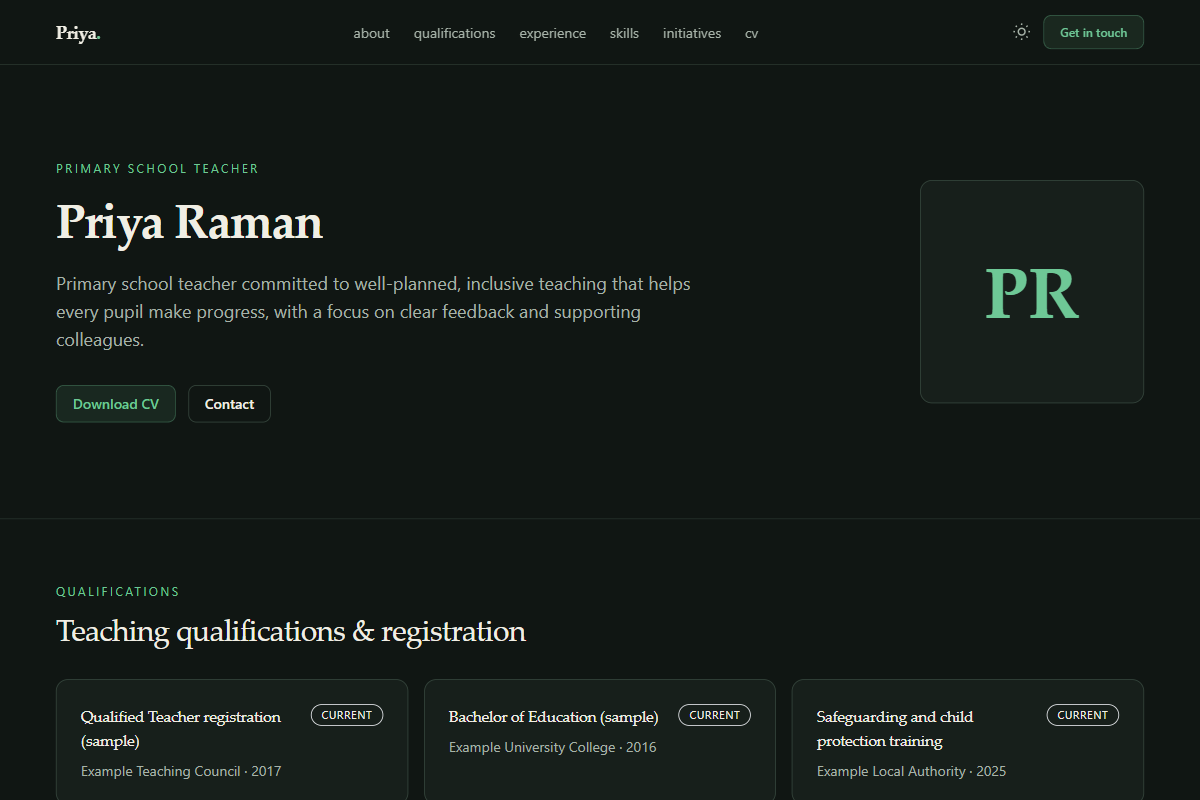
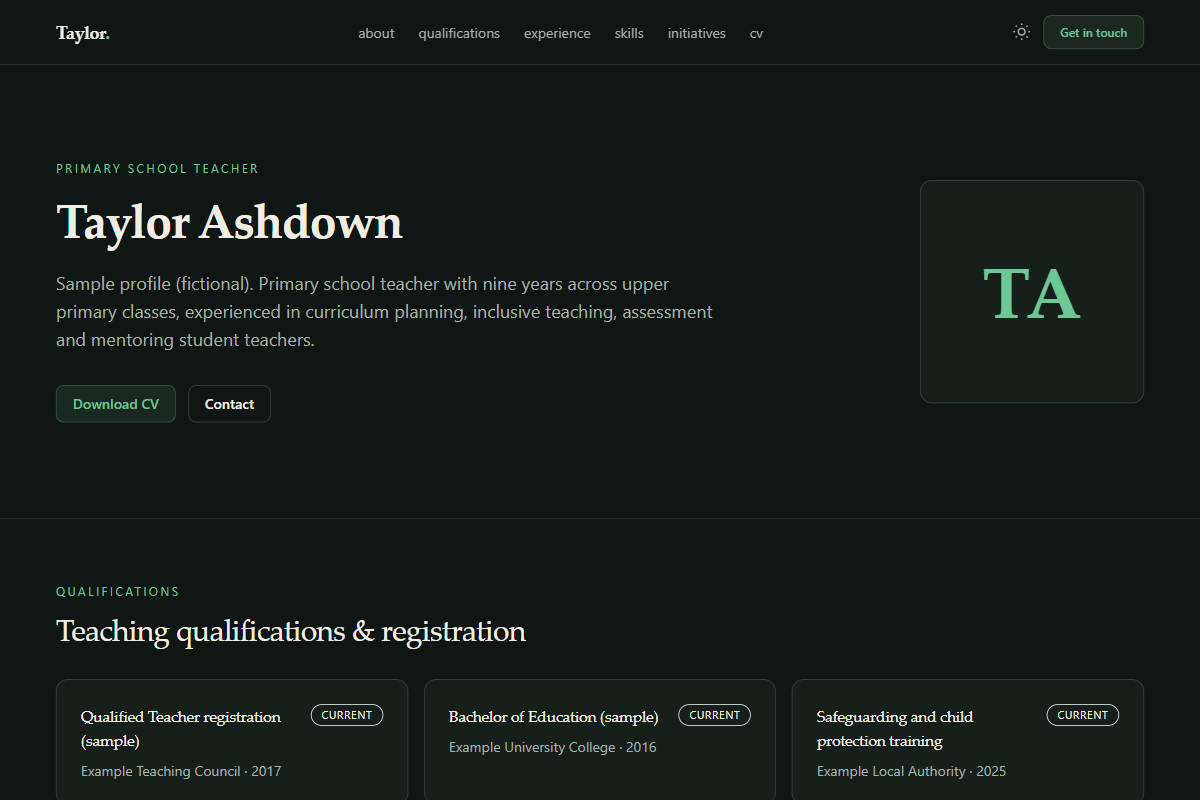
fix: show the fictional starter persona on the Education thumbnail

diff --git a/docs/templates-and-onboarding-plan.md b/docs/templates-and-onboarding-plan.md
@@ -701,7 +701,7 @@ in two content modes (the demo seed switched to the template, and the template's
 - **Guidance.** "Never publish pupil-identifiable information: ..." (names, photographs, work samples that carry a name, behaviour, attendance, special educational needs or safeguarding details, anything that could identify a pupil, family or colleague; check the school's and employer's policies first). Shown on the wizard card, the review step and the template page, and, because the template is `sensitive`, repeated on every editor, as Healthcare does for patients. The experience, project, workshop, reference, article, home introduction, key figures, About and transfer hints also say never to include pupil information.
 - **Theme.** An ink-green dark mode (the default, as for every template) and a warm cream light mode, a deep green accent, four accent choices (green, terracotta, blue, gold), a Charter-led serif display face with the system sans for everything else, modest corners. Distinct from Healthcare's blue. The three theme blocks are in `Styles/themes/education.css`. Every text and accent token is held to 4.5:1 on bg, surface and surface-2 in light and dark, including the four accent choices (the existing theme contrast and accent contrast tests run for it).
 - **Talks.** Off, and the `youtubeId` field is hidden, as no layout plays video for it.
-- **Thumbnail.** A real 1200 x 800 dark-mode screenshot of the published home page, taken with a headless browser from a site published through the wizard with the sample content (so the hero carries the name typed into the wizard and the template's suggested summary, not the starter persona's). `preview.png` is 54,467 bytes.
+- **Thumbnail.** A real 1200 x 800 dark-mode screenshot of the published home page, taken in a real browser from a site published through the wizard with the sample content, where the owner details entered in the wizard were set to the invented starter persona (Taylor Ashdown, with the starter's "Sample profile (fictional)" summary), so the hero is marked as sample. `preview.png` is 56,500 bytes.
 
 **Starter content.** Invented persona "Taylor Ashdown" (a primary school teacher; neutral pronouns), three schools marked "(fictional)" with no legal-form suffix, 17 skills in the five groups, three "(sample)" initiatives (Reading for pleasure programme, Mathematics mastery pilot, Outdoor learning day; two featured), six qualifications from invented "Example ..." bodies (four held, one in progress, one planned), two references, `example.org` links. Four generated SVG placeholders under `wwwroot/img/starter/education/` (the first initiative has two pictures; no text, no scripts, no downloads; every cover has alt text and every extra picture a caption). No pupil data of any kind; a heuristic test rejects "pupil", "student", "child" or "learner" followed by a capitalised name. After publishing the sample content the dashboard said: 3 experience, 17 skills, 3 projects, 6 certifications, 2 testimonials.
 
